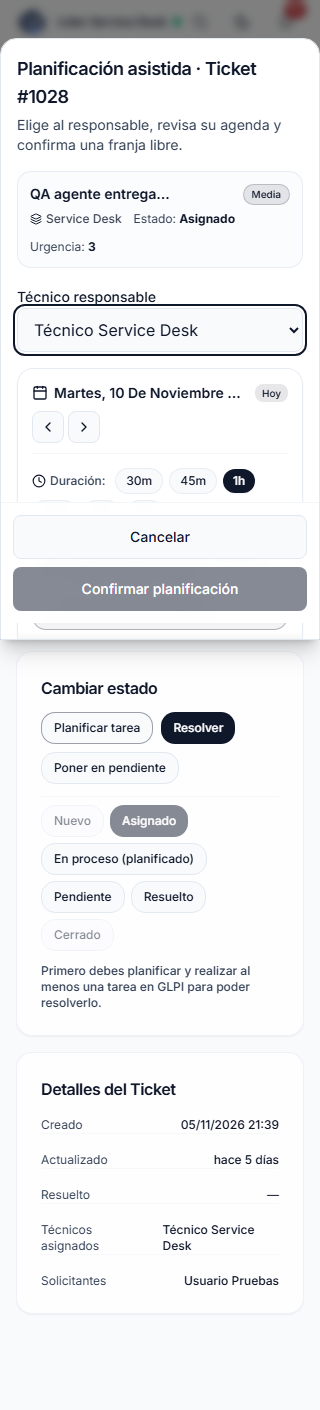
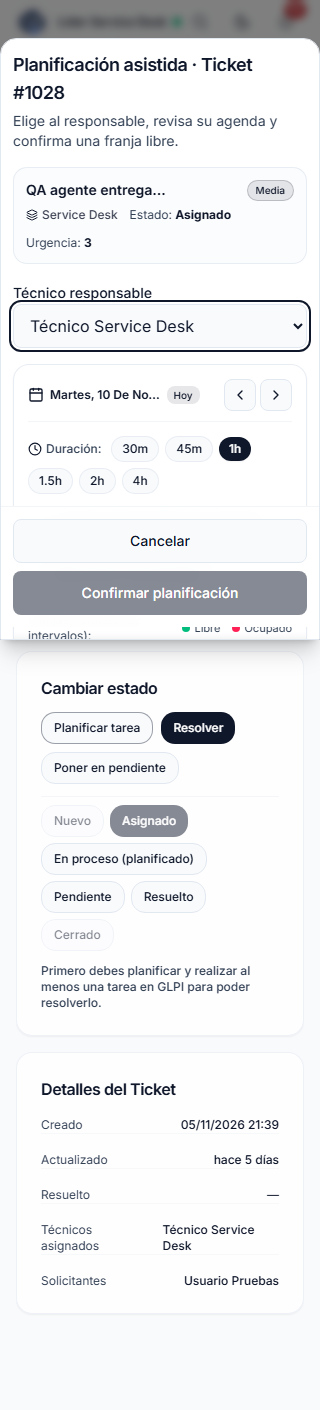
fix(qa): deshabilitar seleccion durante carga de disponibilidad y optimizar modales a 320, 375, 390 y 768px

diff --git a/frontend/src/features/tickets/VisualScheduleSelector.tsx b/frontend/src/features/tickets/VisualScheduleSelector.tsx
@@ -230,9 +230,9 @@ export function VisualScheduleSelector({
     <div className="space-y-3.5 rounded-2xl border border-border/80 bg-card/60 p-3.5 sm:p-4 shadow-xs backdrop-blur-xs">
       {/* Header: Date navigation & Timezone */}
       <div className="flex flex-wrap items-center justify-between gap-2 border-b border-border/40 pb-2.5">
-        <div className="flex items-center gap-1.5 min-w-0">
+        <div className="flex items-center gap-1.5 min-w-0 max-w-[65%] sm:max-w-none">
           <Calendar className="size-4 text-primary shrink-0" />
-          <span className="font-semibold text-sm capitalize text-foreground truncate">{dateLabel}</span>
+          <span className="font-semibold text-xs sm:text-sm capitalize text-foreground truncate">{dateLabel}</span>
           {isToday && (
             <Badge variant="secondary" className="text-[10px] py-0 px-1.5 h-4.5 bg-primary/10 text-primary shrink-0">
               Hoy
@@ -328,11 +328,11 @@ export function VisualScheduleSelector({
             type="button"
             size="sm"
             variant="outline"
-            disabled={disabled}
+            disabled={disabled || isFetchingAvailability}
             onClick={() => onSlotSelect(recommendedSlot.start, durationMinutes)}
             className="h-7 text-xs border-primary/50 text-primary hover:bg-primary/10 shrink-0 self-start sm:self-auto"
           >
-            Seleccionar recomendada
+            {isFetchingAvailability ? 'Comprobando…' : 'Seleccionar recomendada'}
           </Button>
         </div>
       )}
@@ -364,48 +364,68 @@ export function VisualScheduleSelector({
           </div>
         </div>
 
-        {/* Removed max-h-48 overflow-y-auto to eliminate nested scroll trap */}
-        <div className="grid grid-cols-3 sm:grid-cols-4 md:grid-cols-6 gap-1.5 p-1 border border-border/40 rounded-xl bg-muted/10">
-          {slots.map((slot) => {
-            const isClickable = !slot.isBusy && !slot.isAfterHours && !disabled
-            return (
-              <button
-                key={slot.timeLabel}
-                type="button"
-                disabled={!isClickable}
-                onClick={() => onSlotSelect(slot.start, durationMinutes)}
-                className={`relative flex flex-col items-center justify-center min-h-[46px] p-1.5 sm:p-2 rounded-lg text-xs transition-all cursor-pointer ${
-                  slot.isSelected
-                    ? 'bg-primary text-primary-foreground font-semibold ring-2 ring-primary ring-offset-1 shadow-sm'
-                    : slot.isBusy
-                      ? 'bg-rose-500/10 border border-rose-500/25 text-rose-700 dark:text-rose-400 cursor-not-allowed opacity-75'
-                      : slot.isAfterHours
-                        ? 'bg-muted/20 border border-border/30 text-muted-foreground/50 cursor-not-allowed'
-                        : slot.isPast
-                          ? 'bg-muted/30 border border-border/40 text-muted-foreground/60 hover:bg-muted/50'
-                          : 'bg-background/90 border border-border/70 text-foreground hover:border-primary/60 hover:bg-primary/5'
-                }`}
-              >
-                <span className="font-mono text-xs sm:text-sm font-semibold leading-none">{slot.timeLabel}</span>
-                <span className="text-[10px] opacity-75 leading-tight mt-0.5">
-                  → {slot.endLabel}
-                </span>
-                {slot.isSelected && (
-                  <Check className="size-3 absolute top-1 right-1 text-primary-foreground" />
-                )}
-                {slot.isBusy && !slot.isSelected && (
-                  <span className="text-[9px] text-rose-600 dark:text-rose-400 font-medium leading-none mt-0.5">
-                    Ocupado
+        <div className="relative">
+          {isFetchingAvailability && (
+            <div
+              role="status"
+              aria-live="polite"
+              className="absolute inset-0 z-10 flex items-center justify-center rounded-xl bg-background/70 backdrop-blur-xs transition-opacity duration-150"
+            >
+              <div className="flex items-center gap-2 rounded-lg bg-card px-3 py-1.5 shadow-sm border border-border/70 text-xs font-medium text-foreground">
+                <span className="size-3.5 animate-spin rounded-full border-2 border-primary border-t-transparent" />
+                <span>Consultando disponibilidad…</span>
+              </div>
+            </div>
+          )}
+
+          {/* Time slots grid with disabled state while fetching */}
+          <div
+            aria-busy={isFetchingAvailability}
+            className={`grid grid-cols-3 sm:grid-cols-4 md:grid-cols-6 gap-1.5 p-1 border border-border/40 rounded-xl bg-muted/10 transition-opacity duration-150 ${
+              isFetchingAvailability ? 'opacity-50 pointer-events-none' : ''
+            }`}
+          >
+            {slots.map((slot) => {
+              const isClickable = !slot.isBusy && !slot.isAfterHours && !disabled && !isFetchingAvailability
+              return (
+                <button
+                  key={slot.timeLabel}
+                  type="button"
+                  disabled={!isClickable}
+                  onClick={() => onSlotSelect(slot.start, durationMinutes)}
+                  className={`relative flex flex-col items-center justify-center min-h-[46px] p-1.5 sm:p-2 rounded-lg text-xs transition-all cursor-pointer ${
+                    slot.isSelected
+                      ? 'bg-primary text-primary-foreground font-semibold ring-2 ring-primary ring-offset-1 shadow-sm'
+                      : slot.isBusy
+                        ? 'bg-rose-500/10 border border-rose-500/25 text-rose-700 dark:text-rose-400 cursor-not-allowed opacity-75'
+                        : slot.isAfterHours
+                          ? 'bg-muted/20 border border-border/30 text-muted-foreground/50 cursor-not-allowed'
+                          : slot.isPast
+                            ? 'bg-muted/30 border border-border/40 text-muted-foreground/60 hover:bg-muted/50'
+                            : 'bg-background/90 border border-border/70 text-foreground hover:border-primary/60 hover:bg-primary/5'
+                  }`}
+                >
+                  <span className="font-mono text-xs sm:text-sm font-semibold leading-none">{slot.timeLabel}</span>
+                  <span className="text-[10px] opacity-75 leading-tight mt-0.5">
+                    → {slot.endLabel}
                   </span>
-                )}
-                {slot.isAfterHours && !slot.isBusy && (
-                  <span className="text-[9px] text-muted-foreground/60 font-medium leading-none mt-0.5">
-                    Excede 19h
-                  </span>
-                )}
-              </button>
-            )
-          })}
+                  {slot.isSelected && (
+                    <Check className="size-3 absolute top-1 right-1 text-primary-foreground" />
+                  )}
+                  {slot.isBusy && !slot.isSelected && (
+                    <span className="text-[9px] text-rose-600 dark:text-rose-400 font-medium leading-none mt-0.5">
+                      Ocupado
+                    </span>
+                  )}
+                  {slot.isAfterHours && !slot.isBusy && (
+                    <span className="text-[9px] text-muted-foreground/60 font-medium leading-none mt-0.5">
+                      Excede 19h
+                    </span>
+                  )}
+                </button>
+              )
+            })}
+          </div>
         </div>
       </div>
 

diff --git a/frontend/src/features/tickets/ReplanTicketTaskDialog.tsx b/frontend/src/features/tickets/ReplanTicketTaskDialog.tsx
@@ -287,7 +287,7 @@ export function ReplanTicketTaskDialog({ ticketId, task, onClose }: {
           </div>
         )}
 
-        <div className="sticky bottom-0 -mx-4 -mb-4 sm:-mx-6 sm:-mb-6 bg-card/95 backdrop-blur-sm border-t border-border/40 p-3 sm:p-4 flex flex-wrap justify-end gap-2 mt-4">
+        <div className="sticky bottom-0 -mx-3 -mb-3 sm:-mx-6 sm:-mb-6 bg-card/95 backdrop-blur-sm border-t border-border/40 p-3 sm:p-4 flex flex-wrap justify-end gap-2 mt-4">
           <Button type="button" variant="outline" className="min-h-11 w-full sm:w-auto" disabled={busy} onClick={onClose}>Cancelar</Button>
           <Button type="submit" className="min-h-11 w-full sm:w-auto" disabled={busy || !startDate || !endDate || isSame || availability.isFetching || availability.isError || !availability.data?.available}>
             {mutation.isPending ? 'Reprogramando...' : 'Guardar nueva programación'}

diff --git a/frontend/src/components/ui/dialog.tsx b/frontend/src/components/ui/dialog.tsx
@@ -152,7 +152,7 @@ export function Dialog({ open, onClose, title, description, children, className 
                 : { duration: 0.2, ease: [0.23, 1, 0.32, 1] }
             }
             className={cn(
-              'relative z-10 max-h-[92vh] max-sm:max-h-[94vh] w-full max-w-lg overflow-y-auto rounded-t-2xl sm:rounded-xl border border-border bg-card p-4 sm:p-6 shadow-xl',
+              'relative z-10 max-h-[92vh] max-sm:max-h-[94vh] w-full max-w-lg overflow-y-auto rounded-t-2xl sm:rounded-xl border border-border bg-card p-3 sm:p-6 shadow-xl',
               className,
             )}
             onClick={(event) => event.stopPropagation()}

diff --git a/frontend/src/features/tickets/PlanTicketDialog.tsx b/frontend/src/features/tickets/PlanTicketDialog.tsx
@@ -631,7 +631,7 @@ export function PlanTicketDialog({
           </p>
         )}
 
-        <div className="sticky bottom-0 -mx-4 -mb-4 sm:-mx-6 sm:-mb-6 bg-card/95 backdrop-blur-sm border-t border-border/40 p-3 sm:p-4 flex flex-wrap justify-end gap-2 mt-4">
+        <div className="sticky bottom-0 -mx-3 -mb-3 sm:-mx-6 sm:-mb-6 bg-card/95 backdrop-blur-sm border-t border-border/40 p-3 sm:p-4 flex flex-wrap justify-end gap-2 mt-4">
           <Button type="button" variant="outline" className="min-h-11 w-full sm:w-auto" disabled={busy} onClick={close}>
             Cancelar
           </Button>
